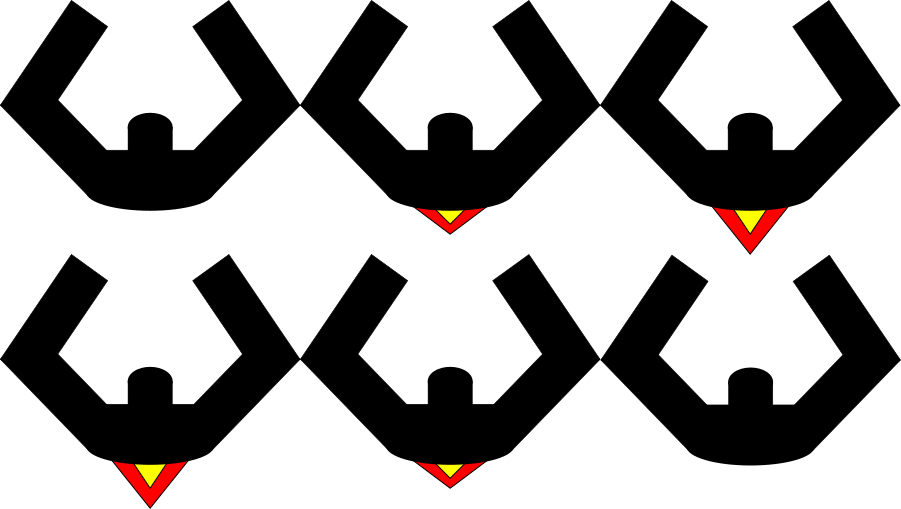
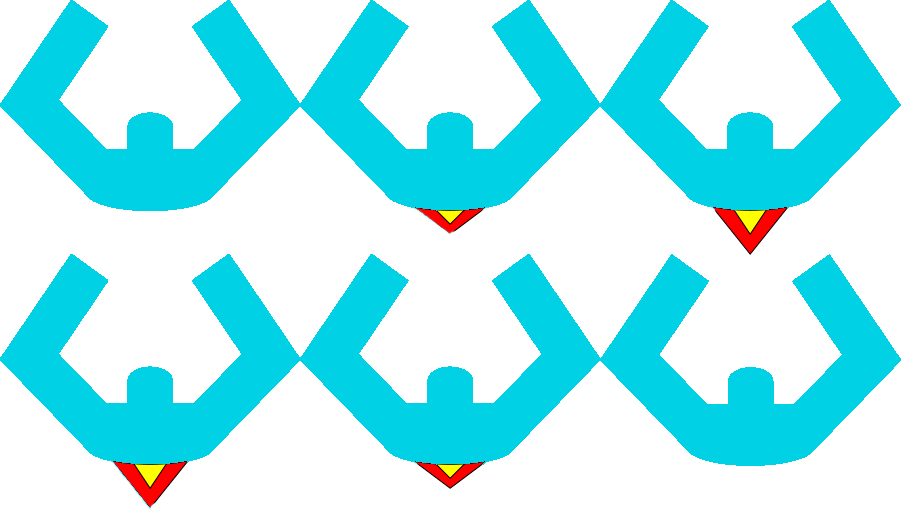
Powerups and Ships done
Powerups completed (StarFire fuck you!), and ships recoloured.

diff --git a/Assets/Scripts/PlayerAttackButton.cs b/Assets/Scripts/PlayerAttackButton.cs
@@ -43,19 +43,15 @@ public class PlayerAttackButton : RandomButton {
     }
 
 	void StarFire(){
-		shootPoint = transform.FindChild("ShootPoint");
-		physics = GetComponent<Rigidbody2D>();
-
 		int shotsFired = 0;
 
-		while (shotsFired < 11) {
+		while (shotsFired < 10) {
 			//Instantiate bullet
 			if(canStarFire){
 				Vector3 misdirection = Quaternion.Euler(0, 0, -36 * shotsFired) * transform.up;
-				Debug.Log ("teste");
 				GameObject bulletFired = Instantiate (bullet, transform.position + misdirection * 3, Quaternion.Euler(0, 0, -36 * shotsFired)) as GameObject;
 				bulletFired.SendMessage ("SetOwner", transform.name);
-				StartCoroutine("waitBulletTime");
+				//StartCoroutine("waitBulletTime");
 				shotsFired++;
 			}
 		}

diff --git a/Assets/Scripts/DisplayCombatText.cs b/Assets/Scripts/DisplayCombatText.cs
@@ -18,12 +18,10 @@ public class DisplayCombatText : MonoBehaviour {
 			_style.normal.textColor = Color.yellow;
 			_displayText = "Star Shower!";
 			StartCoroutine ("waitDisplayTime");
-			this.SendMessage("StarFire", SendMessageOptions.DontRequireReceiver);
 		} else if (name.Equals("heal")){
 			_style.normal.textColor = Color.green;
 			_displayText = "Heal!";
 			StartCoroutine ("waitDisplayTime");
-			this.SendMessage("affectLife", 40, SendMessageOptions.DontRequireReceiver);
 		} else if (name.Equals ("Bullet(Clone)")) {
 			_style.normal.textColor = Color.red;
 			_displayText = "Hit!!";

diff --git a/Assets/Scripts/Powerup.cs b/Assets/Scripts/Powerup.cs
@@ -8,6 +8,15 @@ public class Powerup : MonoBehaviour {
 	void OnTriggerEnter2D(Collider2D other) {
 		if (other.CompareTag ("Player")) {
 			other.gameObject.transform.parent.GetComponent<DisplayCombatText>().displayCombatText(effect);
+			switch(effect){
+				case "star":
+					other.gameObject.transform.parent.SendMessage("StarFire", SendMessageOptions.DontRequireReceiver);
+					break;
+				case "heal":
+					other.gameObject.transform.parent.SendMessage("affectLife", 40, SendMessageOptions.DontRequireReceiver);
+					break;
+			}
+
 			Destroy(gameObject);
 		}
 	}

diff --git a/Assets/Scripts/PowerUpCreator.cs b/Assets/Scripts/PowerUpCreator.cs
@@ -27,7 +27,7 @@ public class PowerUpCreator : MonoBehaviour {
 
 
 			GameObject o = (GameObject) Instantiate(Powerup, new Vector2(Random.Range(x2,x1), Random.Range(y2,y1)), Quaternion.identity);
-			o.GetComponent<Powerup>().setEffect(_effects[Random.Range (0,2)]);
+			o.GetComponent<Powerup>().setEffect(_effects[Random.Range(0, 2)]);
 		}
 
 		yield return new WaitForSeconds(respawntime);
